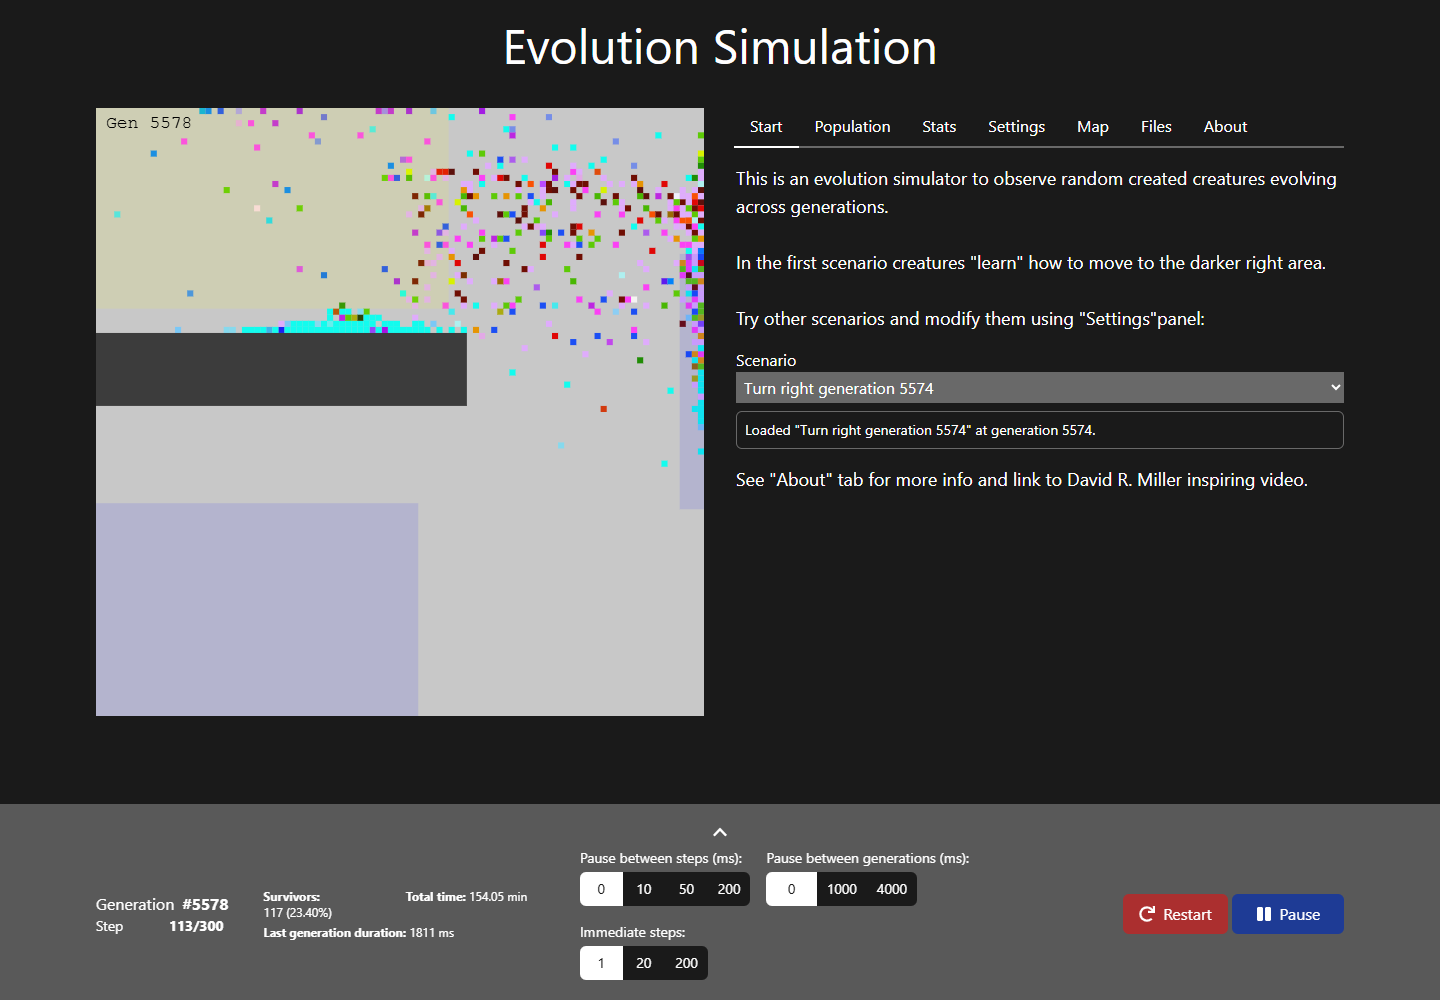
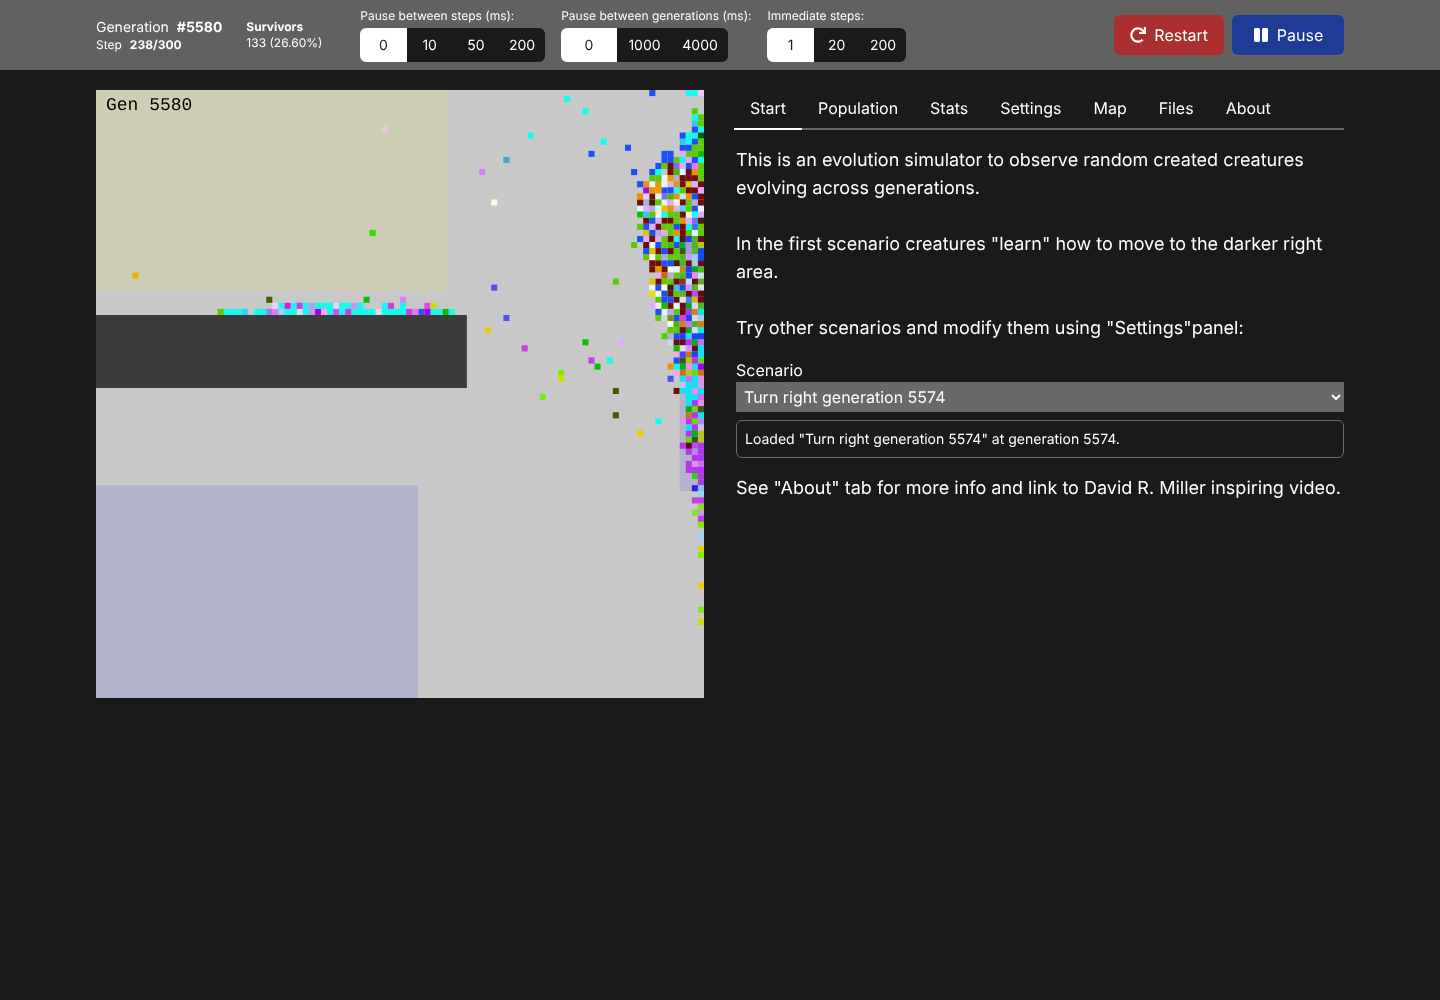
Move the control bar from the bottom to the top of the page
The footer becomes a sticky header that replaces the page title. Below
1280 px the speed controls open from a Speed button in a panel that floats
over the page. Total time and last generation duration move to the Stats
tab. The speed sync effect moves to useSpeedSync() so it runs while the
panel is closed.

Claude-Session: https://claude.ai/code/session_01QTaTYtXNDKwpZbVQvoSFaF

diff --git a/components/simulation/controlbar/ControlBar.tsx b/components/simulation/controlbar/ControlBar.tsx
@@ -1,0 +1,93 @@
+"use client";
+
+import React, { useRef, useState } from "react";
+import { useClickAway } from "react-use";
+import { FaSlidersH } from "react-icons/fa";
+import classNames from "classnames";
+import RestartButton from "../RestartButton";
+import PlayPauseButton from "../PlayPauseButton";
+import Button from "@/components/global/Button";
+import { SpeedControls, useSpeedSync } from "./SpeedControls";
+import useWorldValue from "@/hooks/useWorldValue";
+
+export default function ControlBar() {
+  useSpeedSync();
+
+  // on narrow screens the speed controls open in a panel that floats over the page
+  const [speedOpen, setSpeedOpen] = useState(false);
+  const speedRef = useRef<HTMLDivElement>(null);
+  useClickAway(speedRef, () => setSpeedOpen(false));
+
+  const currentStep = useWorldValue((worldController) => worldController.currentStep, 1);
+  const currentGeneration = useWorldValue((worldController) => worldController.currentGen, 0);
+  const stepsPerGeneration = useWorldValue((worldController) => worldController.stepsPerGen, 0);
+  const lastSurvivorCount = useWorldValue(
+    (worldController) => worldController.generations.lastSurvivorsCount,
+    0
+  );
+  const lastSurvivalRate = useWorldValue(
+    (worldController) => worldController.generations.lastSurvivalRate,
+    0
+  );
+
+  return (
+    <header className="sticky top-0 z-30 bg-grey-mid/90 shadow-sm backdrop-blur-sm">
+      <div className="section-container relative flex items-center gap-3 py-2 sm:gap-6">
+        <h1 className="sr-only text-xl font-bold whitespace-nowrap lg:not-sr-only xl:sr-only 2xl:not-sr-only">
+          Evolution Simulation
+        </h1>
+
+        <div
+          className={classNames(
+            "text-sm",
+            (stepsPerGeneration < 100 && "min-w-[50px]") ||
+              (stepsPerGeneration < 1000 && "min-w-[65px]") ||
+              (stepsPerGeneration < 10000 && "min-w-[80px]")
+          )}
+        >
+          <div className="flex gap-2">
+            <span className="hidden sm:inline-block">Generation</span>
+            <strong>#{currentGeneration}</strong>
+          </div>
+          <div className="flex gap-2 text-xs">
+            <span className="hidden sm:inline-block">Step</span>
+            <strong>
+              {currentStep}/{stepsPerGeneration}
+            </strong>
+          </div>
+        </div>
+
+        <div className="hidden text-xs sm:block">
+          <strong>Survivors</strong>
+          <div className="min-w-[90px]">
+            {lastSurvivorCount
+              ? `${lastSurvivorCount} (${(lastSurvivalRate * 100).toFixed(2)}%)`
+              : "Wait..."}
+          </div>
+        </div>
+
+        <SpeedControls className="hidden xl:flex xl:flex-nowrap" />
+
+        <div className="ml-auto flex items-center gap-2">
+          <div ref={speedRef} className="xl:hidden">
+            <Button
+              variant="dark"
+              icon={<FaSlidersH />}
+              aria-expanded={speedOpen}
+              aria-label="Speed"
+              title="Speed"
+              onClick={() => setSpeedOpen(!speedOpen)}
+            >
+              <span className="hidden sm:inline">Speed</span>
+            </Button>
+            {speedOpen && (
+              <SpeedControls className="absolute right-4 top-full z-40 mt-1 w-max max-w-[calc(100vw-2rem)] rounded-md bg-grey-mid p-3 shadow-lg" />
+            )}
+          </div>
+          <RestartButton />
+          <PlayPauseButton />
+        </div>
+      </div>
+    </header>
+  );
+}

diff --git a/components/simulation/controlbar/SpeedControls.tsx b/components/simulation/controlbar/SpeedControls.tsx
@@ -2,7 +2,7 @@ import React, { useEffect } from "react";
 import { ToggleGroup } from "@/components/global/ToggleGroup";
 import Toggle from "@/components/global/Toggle";
 import classNames from "classnames";
-import {worldControllerAtom} from "../store";
+import { worldControllerAtom } from "../store";
 import {
   pauseBetweenStepsAtom,
   pauseBetweenGenerationsAtom,
@@ -10,31 +10,31 @@ import {
 } from "../store/guiControlsAtoms";
 import { useAtom, useAtomValue } from "jotai";
 
+// Passes the speed atoms to the world controller. It lives in the control bar, which is always
+// mounted, because the SpeedControls panel is not mounted on narrow screens until it is opened.
+export function useSpeedSync() {
+  const pauseBetweenSteps = useAtomValue(pauseBetweenStepsAtom);
+  const pauseBetweenGenerations = useAtomValue(pauseBetweenGenerationsAtom);
+  const immediateSteps = useAtomValue(immediateStepsAtom);
+  const worldController = useAtomValue(worldControllerAtom);
+
+  useEffect(() => {
+    if (worldController) {
+      worldController.setSpeed(pauseBetweenSteps, pauseBetweenGenerations, immediateSteps);
+    }
+  }, [worldController, pauseBetweenSteps, pauseBetweenGenerations, immediateSteps]);
+}
+
 interface Props
   extends React.PropsWithChildren,
     React.ComponentPropsWithoutRef<"div"> {}
 
-export function FooterSpeedControls({ className, ...rest }: Props) {
+export function SpeedControls({ className, ...rest }: Props) {
   const [pauseBetweenSteps, setPauseBetweenSteps] = useAtom(pauseBetweenStepsAtom);
   const [pauseBetweenGenerations, setPauseBetweenGenerations] = useAtom(pauseBetweenGenerationsAtom);
   const [immediateSteps, setImmediateSteps] = useAtom(immediateStepsAtom);
-  const worldController = useAtomValue(worldControllerAtom);
 
-  const finalClassName = classNames(
-    "flex flex-wrap gap-4 text-xs lg:text-sm",
-    className
-  );
-
-  useEffect(()=>{
-    if (worldController) {
-      worldController.setSpeed(pauseBetweenSteps, pauseBetweenGenerations, immediateSteps);
-      //console.log("FooterSpeedControls - updated immediateSteps:", immediateSteps, worldController.immediateSteps);
-    }
-    else {
-      console.log("FooterSpeedControls - worldController not found!");
-    }
-  }, [worldController, pauseBetweenSteps, pauseBetweenGenerations, immediateSteps]);
-
+  const finalClassName = classNames("flex flex-wrap gap-4 text-xs", className);
 
   return (
     <div className={finalClassName} {...rest}>

diff --git a/app/page.tsx b/app/page.tsx
@@ -2,7 +2,7 @@ import Tab from "@/components/global/tabs/Tab";
 import TabList from "@/components/global/tabs/TabList";
 import TabPanel from "@/components/global/tabs/TabPanel";
 import Tabs from "@/components/global/tabs/Tabs";
-import Footer from "@/components/simulation/footer/Footer";
+import ControlBar from "@/components/simulation/controlbar/ControlBar";
 import SimulationCanvas from "@/components/simulation/SimulationCanvas";
 import FilesPanel from "@/components/simulation/tabs/files/FilesPanel";
 import MapPanel from "@/components/simulation/tabs/map/MapPanel";
@@ -21,12 +21,10 @@ export const metadata: Metadata = {
 export default function Home() {
   return (
     <main className="bg-grey-dark text-white">
+      <ControlBar />
+
       <div className="min-h-screen">
         <div className="section-container py-5">
-          <h1 className="mb-10 text-center text-4xl lg:text-5xl">
-            Evolution Simulation
-          </h1>
-
           <div className="grid gap-8 lg:grid-cols-2">
             <SimulationCanvas className="aspect-square w-full bg-grey-light" />
 
@@ -82,7 +80,7 @@ export default function Home() {
                   <p>How to use:</p>
                   <ul className="list-disc pl-6">
                     <li>Start by using one of the simulations based on the video in the &apos;Start&apos;&nbsp;panel.</li>
-                    <li>Adjust simulation speed and restart on the footer.</li>
+                    <li>Adjust simulation speed and restart in the control bar at the top.</li>
                     <li>See fitness evolution in &apos;Stats&apos;&nbsp;panel.</li>
                     <li>Modify scenario parameters and run your simulation in &apos;Settings&apos;&nbsp;panel.</li>
                     <li>Edit the map in &apos;Map&apos;&nbsp;panel.</li>
@@ -114,8 +112,6 @@ export default function Home() {
           </div>
         </div>
       </div>
-
-      <Footer />
     </main>
   );
 }

diff --git a/components/simulation/tabs/stats/RunTimes.tsx b/components/simulation/tabs/stats/RunTimes.tsx
@@ -1,0 +1,30 @@
+"use client";
+
+import useWorldValue from "@/hooks/useWorldValue";
+import React from "react";
+
+export default function RunTimes() {
+  const lastGenerationDuration = useWorldValue(
+    (worldController) => worldController.lastGenerationDuration,
+    0
+  );
+  const totalTime = useWorldValue((worldController) => worldController.totalTime, 0);
+
+  // convert the total time to minutes
+  const totalTimeMinutes = (totalTime / 1000 / 60).toFixed(2);
+
+  const waitMessage = "Wait...";
+
+  return (
+    <div className="flex flex-wrap gap-x-6 gap-y-1 text-sm">
+      <div>
+        <strong>Total time: </strong>
+        {totalTime ? <span>{totalTimeMinutes} min</span> : waitMessage}
+      </div>
+      <div>
+        <strong>Last generation duration: </strong>
+        {lastGenerationDuration ? <span>{lastGenerationDuration} ms</span> : waitMessage}
+      </div>
+    </div>
+  );
+}

diff --git a/components/simulation/tabs/stats/StatsPanel.tsx b/components/simulation/tabs/stats/StatsPanel.tsx
@@ -5,6 +5,7 @@ import { SingleGeneration } from "@/simulation/world/stats/GenerationRegistry";
 import LinearGraph from "@/components/global/graphs/LinearGraph";
 import WorldWaterStatus from "./WorldWaterStatus";
 import LoggerStatus from "./LoggerStatus";
+import RunTimes from "./RunTimes";
 import useWorldValue from "@/hooks/useWorldValue";
 
 const NO_GENERATIONS: SingleGeneration[] = [];
@@ -66,6 +67,7 @@ export default function StatsPanel() {
         yLabelFormatter={maxFitnessFormatter}
         className="aspect-[2/1] w-full bg-white"
       />
+      <RunTimes />
      {/* TODO genus graph.... */ }
      </div>
 

diff --git a/components/global/Toggle.tsx b/components/global/Toggle.tsx
@@ -23,7 +23,7 @@ export default function Toggle({
   const finalClassName = classNames(
     "py-2 px-2 text-sm !leading-none border-2",
     "first:rounded-l-md last:rounded-r-md",
-    // selected option stands out from the grey footer and from the other options
+    // selected option stands out from the grey control bar and from the other options
     isActive && "bg-white text-grey-dark border-white",
     !isActive && "bg-grey-dark text-white border-grey-dark hover:border-white/50",
     className

diff --git a/components/simulation/PlayPauseButton.tsx b/components/simulation/PlayPauseButton.tsx
@@ -23,7 +23,7 @@ export default function PlayPauseButton() {
   return (
     <Button
       variant="primary"
-      // fixed width so the footer does not jump when the label changes
+      // fixed width so the control bar does not jump when the label changes
       className="min-w-28"
       icon={isPaused ? <FaPlay /> : <FaPause />}
       onClick={handleClick}

diff --git a/components/simulation/RestartButton.tsx b/components/simulation/RestartButton.tsx
@@ -30,8 +30,8 @@ export default function RestartButton() {
   };
 
   return (
-    <Button variant="danger" icon={<FaRedo />} onClick={handleClick}>
-      Restart
+    <Button variant="danger" icon={<FaRedo />} aria-label="Restart" title="Restart" onClick={handleClick}>
+      <span className="hidden sm:inline">Restart</span>
     </Button>
   );
 }

diff --git a/docs/user/getting-started.md b/docs/user/getting-started.md
@@ -6,9 +6,9 @@ react-biosim runs in the browser. Open the [live demo](https://biosim.rdalmau.co
 
 The screen has three parts:
 
+- **The control bar** (top). Shows progress and holds the speed controls, Restart and Play / Pause. It stays at the top of the screen when you scroll.
 - **The world** (left). Each coloured square is a creature. Shaded rectangles are areas: blue for reproduction, yellow for spawn, green or red for health. Dark grey rectangles are obstacles. The top-left corner shows the current generation.
 - **The tabs** (right). Use them to load scenarios, inspect creatures, read stats, change settings, edit the map and save your work.
-- **The footer** (bottom). Shows progress and holds the speed controls.
 
 ## 1. Load a scenario
 
@@ -29,20 +29,21 @@ In the first generations creatures move almost at random. After tens or hundreds
 
 ## 3. Control the speed
 
-![Footer](images/footer.png)
+![Control bar](images/control_bar.png)
 
 | Control | What it does |
 |---|---|
 | Generation / Step | Current generation, and the current step out of the steps per generation. |
 | Survivors | Survivors of the last generation, and their share of the population. |
-| Total time / Last generation duration | Time spent running the simulation. |
 | Pause between steps (ms) | Slows the simulation down. Use 50 or 200 to follow individual creatures. |
 | Pause between generations (ms) | Holds the last step of each generation on screen so you can see who survived. |
 | Immediate steps | Steps computed before the world is redrawn. **200 runs at full speed.** |
 | Restart | Starts again from generation 1. It asks for confirmation, because all evolution so far is lost. |
 | Play / Pause | Stops and resumes the simulation. |
 
-On narrow screens the speed controls are hidden. Click the arrow at the top of the footer to show them.
+On screens narrower than 1280 px the speed controls are hidden behind the **Speed** button. Click it to open them over the page, and click anywhere else to close them. On phones the Restart and Speed buttons show only their icons, and the Survivors count is hidden.
+
+The time spent running the simulation is shown in the **Stats** tab.
 
 ## 4. Look inside a creature
 

diff --git a/docs/development/architecture.md b/docs/development/architecture.md
@@ -4,7 +4,7 @@
 
 ```
 ┌──────────────────────────── React UI (components/) ────────────────────────────┐
-│  Tabs, footer, canvas component                                                 │
+│  Tabs, control bar, canvas component                                            │
 │      │ read: useWorldValue(getter)        │ write: call methods / set fields    │
 │      │       (subscribes to events)       │        on worldController           │
 │      ▼                                    ▼                                     │
@@ -49,7 +49,7 @@ Loading a scenario or a file does **not** create a new controller. It calls `sta
 | `simulationDataAtom` | The **draft** `SimulationData` edited in the Settings tab. It is not the running configuration: that lives in `worldController.simData`. |
 | `selectedCreatureAtom`, `selectedSpeciesAtom` | The selection made on the canvas or in the Population tab. |
 | `eventLoggerAtom` | The controller's `EventLogger`. |
-| `pauseBetweenStepsAtom`, `pauseBetweenGenerationsAtom`, `immediateStepsAtom` | Footer speed controls. An effect in `FooterSpeedControls` passes them to `worldController.setSpeed()`. |
+| `pauseBetweenStepsAtom`, `pauseBetweenGenerationsAtom`, `immediateStepsAtom` | Speed controls in the control bar. `useSpeedSync()`, called by `ControlBar`, passes them to `worldController.setSpeed()`. |
 | `mapDesigner*Atom` | Map editor state (objects, selection, fullscreen). |
 | `gif.ts` atoms | GIF recorder state. |
 

diff --git a/README.md b/README.md
@@ -15,7 +15,7 @@ Creatures live on a grid and are controlled by small neural networks built from 
 3. Click a species in the **Population** tab to see its brain.
 4. Change the rules in **Settings** or draw a new map in **Map**, then click **Restart**.
 
-Use the footer to pause the simulation or change its speed. Set **Immediate steps** to 200 to run at full speed.
+Use the control bar at the top to pause the simulation or change its speed. Set **Immediate steps** to 200 to run at full speed.
 
 ### Included scenarios
 
@@ -76,7 +76,7 @@ Project layout:
 | Folder | Contents |
 |---|---|
 | `app/` | Next.js entry page and layout |
-| `components/` | React UI: tabs, footer, canvas and shared inputs |
+| `components/` | React UI: tabs, control bar, canvas and shared inputs |
 | `components/simulation/store/` | Jotai atoms that connect the UI to the simulation |
 | `simulation/` | The simulation engine, written in plain TypeScript with no React |
 | `hooks/` | React hooks |

diff --git a/docs/user/files.md b/docs/user/files.md
@@ -14,7 +14,7 @@ A saved file is plain JSON. You can open it in a text editor to change values th
 - **Choose File** loads a `.sim`, `.txt` or `.json` file saved with **Save to file**. Files from older versions of the app, such as those in `_scenarios/`, may not load: if one fails, the message explains why.
 - **Or paste the JSON code** loads text you copied with **Show JSON to copy**. Click **Load**.
 
-Loading **resumes** the saved run: it continues from the saved generation with the saved creatures. The Settings draft and the footer controls are updated to match. A message tells you whether the load worked or why it failed.
+Loading **resumes** the saved run: it continues from the saved generation with the saved creatures. The Settings draft and the speed controls are updated to match. A message tells you whether the load worked or why it failed.
 
 ## Images and GIFs
 
